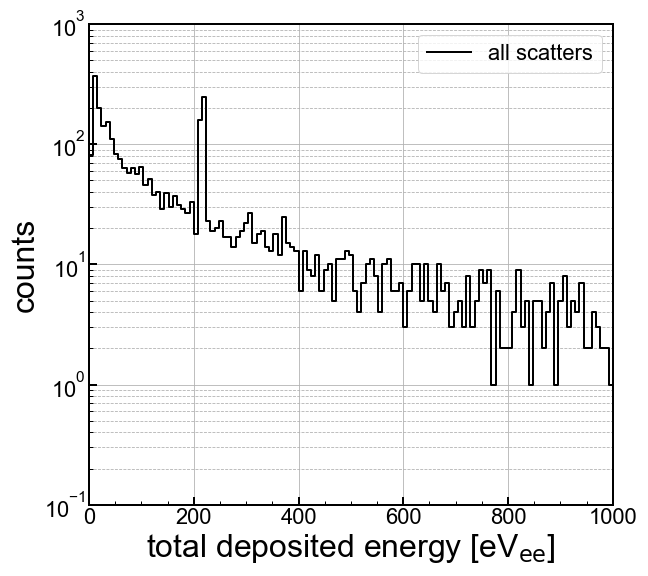
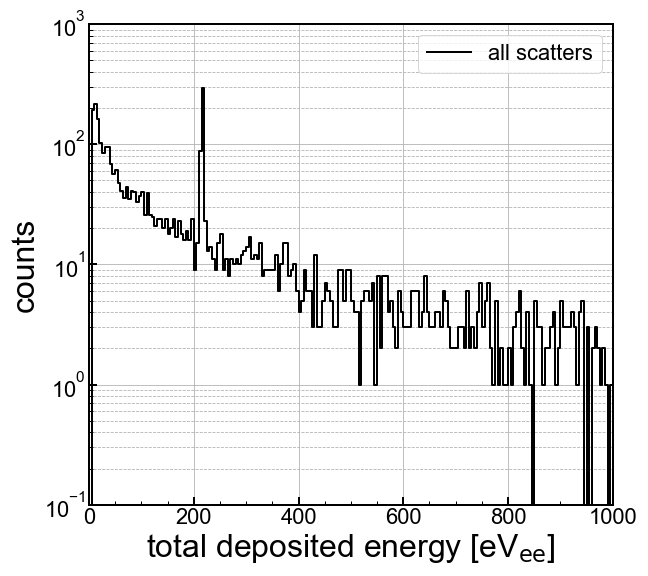
[ANV] updated code

Changed region(s): [[0.1235, 0.125, 0.9568, 0.875]]

diff --git a/sima2py/sima2py.py b/sima2py/sima2py.py
@@ -58,18 +58,34 @@ def readFile(filename):
         #hard-code a cut?
         if np.shape(data)[0]>0:
           cHVDet = np.zeros(np.shape(data)[0],dtype=bool)
+          cCapture = np.zeros(np.shape(data)[0],dtype=bool)
           cZeroEdep = np.zeros(np.shape(data)[0],dtype=bool)
           cNeutron = np.zeros(np.shape(data)[0],dtype=bool)
           cGamma = np.zeros(np.shape(data)[0],dtype=bool)
           cNR = np.zeros(np.shape(data)[0],dtype=bool)
 
           cHVDet[data[:,1]==1] = True
+          cCapture[data[:,21]==1] = True
           cZeroEdep[data[:,6]==0] = True
           cNeutron[data[:,4]==2112] = True
           cGamma[data[:,4]==22] = True
           cNR[data[:,4]>3000] = True
-          data = data[cHVDet&~cZeroEdep&cNR,:]
 
+          #event-level cuts
+          #try to label events with consecutive and unique labels
+          ev = data[:,0]
+
+          diffs = np.append(np.diff(ev),1)
+          diff_divide = np.copy(diffs)
+          diff_divide[diff_divide==0] = 1 #replace some elements with unity
+          diffs = diffs/diff_divide
+
+          newev = np.cumsum(diffs)
+          #now some event-level cuts
+          evWithCapture = newev[cCapture]
+          cWithCapture = np.isin(newev,evWithCapture)
+
+          data = data[cHVDet&~cZeroEdep&cNR&~cWithCapture,:]
         f.close()
         return data,tags 
 
